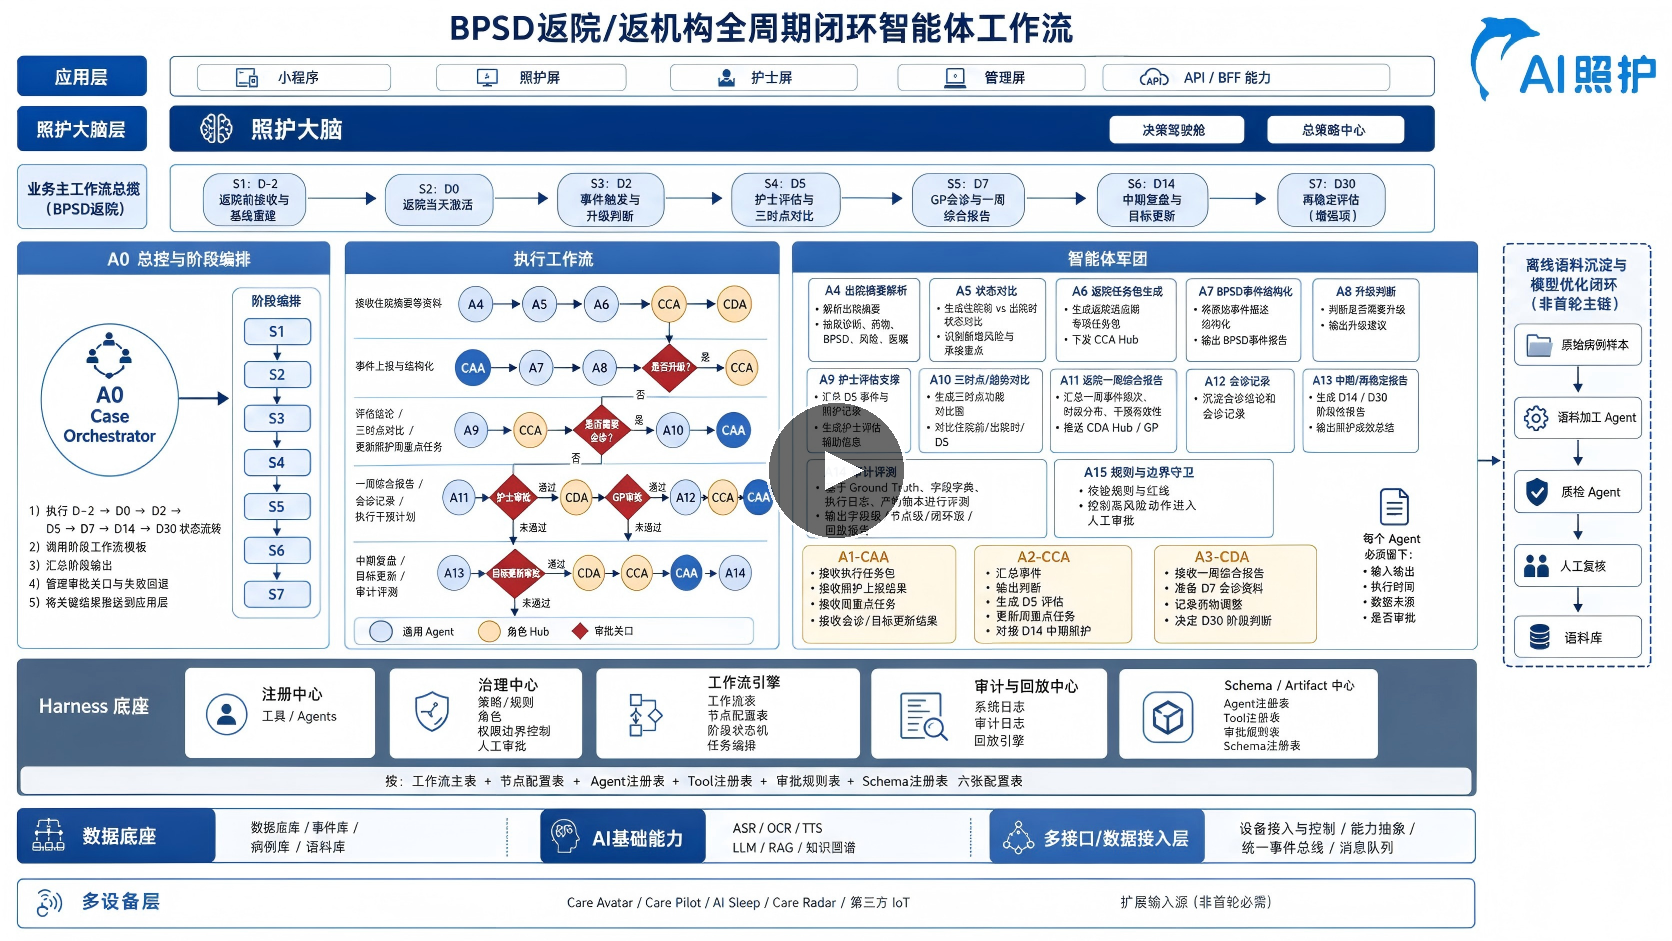
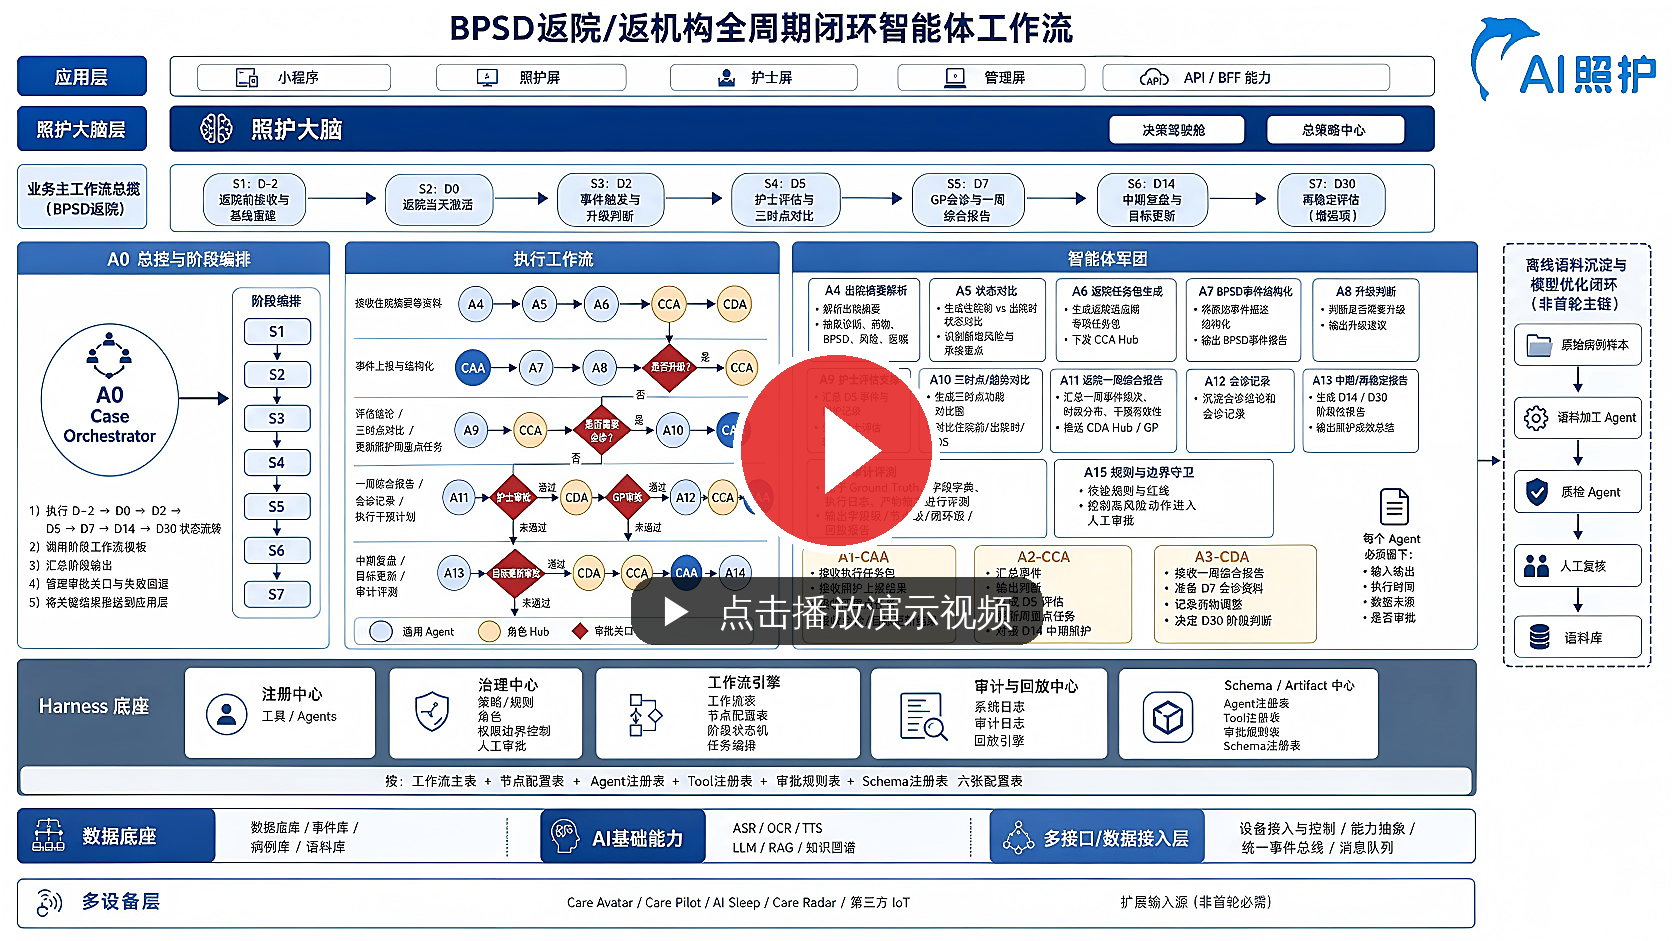
Make video cover play button prominent and improve README image display.
Use red play icon with label overlay, light sharpening, and HD original link.

diff --git a/README.md b/README.md
@@ -36,9 +36,11 @@
 
 <div align="center">
 
-[![应用场景-认知症 BPSD 患者住院后返回照护机构全流程](https://raw.githubusercontent.com/tongjialiang/supercare/main/assets/bilibili_scenario1_cover.png)](https://www.bilibili.com/video/BV1edVG68EJJ)
+<a href="https://www.bilibili.com/video/BV1edVG68EJJ">
+  <img src="https://raw.githubusercontent.com/tongjialiang/supercare/main/assets/bilibili_scenario1_cover.png" alt="应用场景-认知症 BPSD 患者住院后返回照护机构全流程" width="100%">
+</a>
 
-**[▶ 点击在 B 站观看完整演示视频](https://www.bilibili.com/video/BV1edVG68EJJ)**
+**[▶ 点击播放 B 站演示视频](https://www.bilibili.com/video/BV1edVG68EJJ)** · **[查看高清架构图原图](https://raw.githubusercontent.com/tongjialiang/supercare/main/assets/bilibili_scenario1_cover.png)**
 
 </div>
 